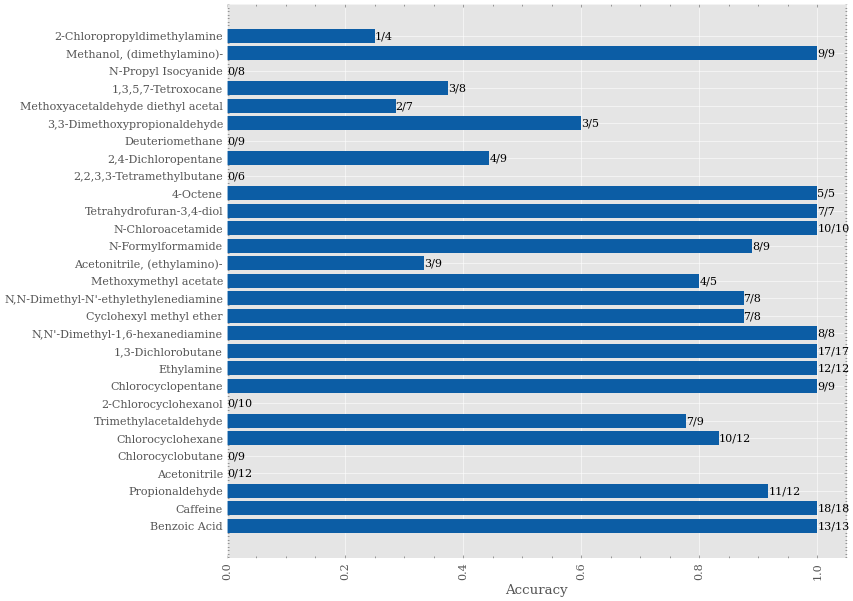
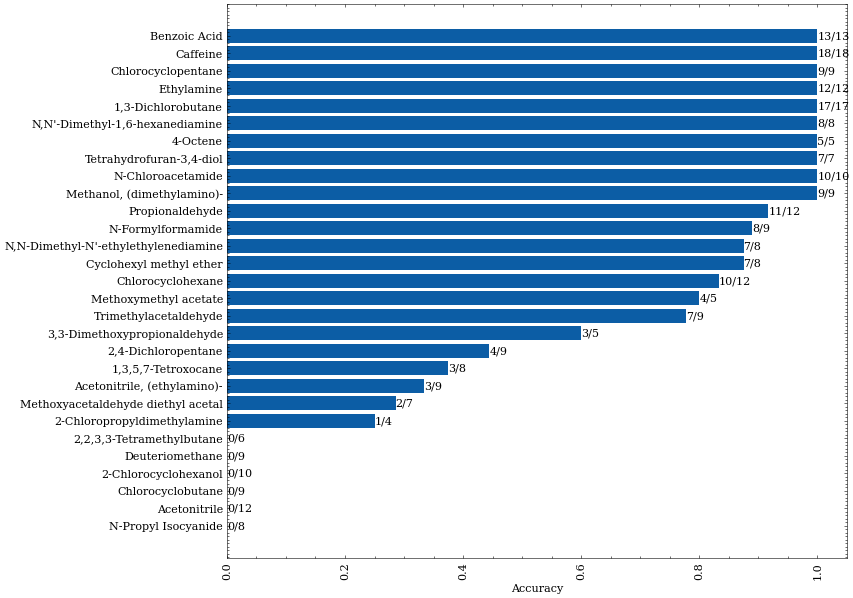
grammarly

diff --git a/main.tex b/main.tex
@@ -2,6 +2,7 @@
 \usepackage{listings}
 \usepackage[utf8]{inputenc}
 \usepackage{xcolor}
+\usepackage{gensymb}
 \usepackage{amsmath}
 \definecolor{codegreen}{rgb}{0,0.6,0}
 \definecolor{codegray}{rgb}{0.5,0.5,0.5}
@@ -67,14 +68,14 @@ mohamed.sami.shehata@ubc.ca
 
 
 \begin{abstract}
-Molecular models 
+Concrete molecular models could be important tools for students to learn organic chemistry compared to the virtual models. However, it lacks some properties of virtual models such as being able to look up more information (e.g. boiling point, polarity, name, etc) about the molecule. Thus, we aim to close the gap between concrete models with their digital representations.   
 \end{abstract}
 
 
 \section{Introduction}
 Molecular models are helpful tools in chemistry education as they provide an intuitive way for students to understand the 3D structure compared to 2D molecular structure representation. These models can also assist students with 3D mental operations. 
 % Although virtual models could be as effective as concrete models, concrete should be available to students at least at the beginning of the study of new concepts and ideas, as humans sometimes rely on concrete objects.\autocite{savec_evaluating_2005} 
-A study \autocite{savec_evaluating_2005} found that although virtual models could have the same effectiveness as concrete models, students should have access to concrete models at least at the beginning of the study because sometimes humans rely on concrete objects. Additionally, digital model tools have learning curve, and it is hard for students to understand some space operations such as a ``chair flip" using digital models. 
+A study \autocite{savec_evaluating_2005} found that although virtual models could have the same effectiveness as concrete models, students should have access to concrete models at least at the beginning of the study because sometimes humans rely on concrete objects. Additionally, digital model tools have a learning curve, and it is hard for students to understand some space operations such as a ``chair flip" or bonds rotation using digital models. 
 However, digital model representation has the benefit that allowing students to look up more information about the molecule such as the IUPAC (International Union of Pure and Applied Chemistry) name, the boiling point, and the polarity. Students can also modify the molecule and observe how it will affect the molecular properties. Thus, it will be beneficial if students can convert concrete molecular models to digital representations. 
 
 
@@ -84,14 +85,14 @@ Our contribution to this paper can be summarised as:
 \item We have constructed two datasets: one computer-rendered 3D molecular model and another consisting of real-world 3D molecular models.
 \item We trained a model on top of these two datasets that is capable of converting images of concrete molecular models into their respective SMILES (simplified molecular-input line-entry system) notations. 
 \item We applied a method based on multi-image input and beam search to increase the accuracy of the output.
-\item  We proposed to let the model to re-evaluate its output and select the one with highest probability being correct.
+\item  We proposed to let the model re-evaluate its output and select the one with the highest probability of being correct.
 % can we use this for seg? review the segmented images
 % \item We applied a multi-image input method allowing users to capture multiple images of the molecular model to increase the accuracy of the output.
 \end{itemize}
 
 \section{Related Work}
 To the best of our knowledge, there is no prior model that can convert a 3D molecular set photo into its digital structure representation. However, there are some models for 2D structure formulas. The two most recent ones are SwinOCSR\autocite{swinocsr} and DECIMER.ai\footnote{The name DECIMER has been used by the same team for both the dataset and two versions of the mode, here we are refreshing the model published in 2023.}\autocite{decimer}. These two models are very similar in architecture consisting of an image encoder and a transformer. The architecture of DECIMER.ai and SwinOCSR are shown in Figure \ref{fig:rwa}.
-ChemPix is another model that attempted to recognize hand-drawn hydrocarbon sturtures using CNN and Long Short-Term Memory (LSTM).  
+ChemPix is another model that attempted to recognize hand-drawn hydrocarbon structures using CNN and Long Short-Term Memory (LSTM).  
 
 \begin{figure}
     \centering
@@ -107,17 +108,17 @@ The decoder in DECIMER.ai is a transformer model based on \autocite{attention_is
 
 Although DeepSMILES \autocite{oboyle_deepsmiles:_2018} has been proposed for machine learning models to generate more valid identifies, their previous work \autocite{rajan_performance_2022} has shown that SMILES actually lead to the most accurate identifiers, SELFIES \autocite{krenn_self-referencing_2020} generated the most valid sequences, and SMILES is between the two. Thus, they used SMILES instead of DeepSMILES in DECIMER.ai. \autocite{decimer}  
 
-DECIMER.ai is trained on 127.5 millions molecules (453.9 millions depictions) with image size of 512$\times$512. They tested the model on4 in-domain dataset with 250K images each. The testing set dose not contain molecules from the training set. The results shows DECIMER.ai can generate moleucules with Tanimoto similarity greater than 0.95 and average sequence-level accuracy greater than 75\%. The detialed perfomance result could be find in their original paper \autocite{decimer}. 
+DECIMER.ai is trained on 127.5 million molecules (453.9 million depictions) with image size of 512$\times$512. They tested the model on the in-domain dataset with 250K images each. The testing set does not contain molecules from the training set. The results show DECIMER.ai can generate molecules with Tanimoto similarity greater than 0.95 and average sequence-level accuracy greater than 75\%. The detailed performance result could be found in their original paper \autocite{decimer}. 
 
-In addition to printed structure formulas, which has regular shapes and format, DECIMER.ai also attempted to recognize hand-drawn structures by finetuning the model with a dataset that has augmented data that makes structures look hand-drawn. This increases sequence level accuracy from 27\% to 60\% and increased the Tanimoto similarity from 0.2 to 0.89.
+In addition to printed structure formulas, which have regular shapes and format, DECIMER.ai also attempted to recognize hand-drawn structures by finetuning the model with a dataset that has augmented data that makes structures look hand-drawn. This increases sequence level accuracy from 27\% to 60\% and increases the Tanimoto similarity from 0.2 to 0.89.
 \autocite{decimer} 
 
 %how it trained on real data and handwritten 
 \subsection{SwinOCSR}
-In SwinOCSR, the encoder (they referred to as "backbone" in their paper) is built on the Swin Transformer. The image is cut into patches with each path having a size of $4 \times 4$ pixels. Then each patch is flattened into and treated as a token which is a 48-dim vector. Then a linear projection layer is applied and each token is into a 192-dim space. 
+In SwinOCSR, the encoder (they referred to as ``backbone" in their paper) is built on the Swin Transformer. The image is cut into patches with each path having a size of $4 \times 4$ pixels. Then each patch is flattened into and treated as a token which is a 48-dim vector. Then a linear projection layer is applied and each token is into a 192-dim space. 
 Then 4 Swin-Transformer (Shifted Window Transformer) \autocite{swin_tran} blocks are used. Each swim transformer block contains two regular transformer modules. In the first transformer module, Window Mutli-head Self Attention (W-MSA) is performed within each window, which is a group of neighbouring tokens. In the second transformer module, the Shifted Window Mutli-head Self Attention (SW-MSA) is performed on a shift-ed window. The W-MSA allows the model to capture the local relationship in the image, and the SW-MSA introduced a cross-window connection while maintaining efficiency. Before the tensor ($H_i \times W_i \times C_i$) gets passed to the next Swin Transformer block, a patch merging operation is performed to capture hierarchical information. During path merging, neighbouring $2 \times 2$ patches are merged and the tokens are concatenated. This results in $\frac{1}{4}$ of the number of patches and each $4C_i$ feature for each token. Then the dimensions of each token are reduced to $2C_i$. In SwinOCSR, 4 Swin Transformer blocks are used; the last Swin Transformer block outputs a tensor with shape $\frac{H}{32} \times \frac{H}{32} \times 1536$. This tensor is flattened across the spatial axes and projects the last axis into 256 dimensions. 
 % After each block, a patch merging operation is performed such that neighbouring patches are merged and the tokens are contacted. \autocite{swin_tran} The decoder of SwinOCSR is very similar to the decoder in DECIMER.ai, which is also a transformer encoder-decoder pair but with 6 blocks of encoders and 6 blocks of decoders. 
-In additition, SwinOCSR uses focal loss \autocite{lin_focal_2018} instead of normal cross entropy loss due to the inbalance of the tokens distribution. \cite{swinocsr} Original focal loss is only for binary task and \autocite{swinocsr} rewrited it for muti-class, which is shown in Equation \ref{focal} and \ref{focal2}, where $\sigma$ is the sigmoid function, $O_i$ is the output logist from the network, and $p_i$ is the probility of each class. 
+In addition, SwinOCSR uses focal loss \autocite{lin_focal_2018} instead of normal cross-entropy loss due to the imbalance of the tokens distribution. \cite{swinocsr} Original focal loss is only for binary task and \autocite{swinocsr} rewrited it for muti-class, which is shown in Equation \ref{focal} and \ref{focal2}, where $\sigma$ is the sigmoid function, $O_i$ is the output logist from the network, and $p_i$ is the probility of each class. 
 \begin{equation}
     p_i = \begin{cases} \sigma(o_i) &  y_i=1 \\
     1-\sigma(o_i) & \text{otherwise} \\
@@ -138,13 +139,30 @@ In additition, SwinOCSR uses focal loss \autocite{lin_focal_2018} instead of nor
 
 % \subsection{Re-evoluate the Results After Generation}
 \subsection{ChemPix}
-ChemPix \cite{chempix} is a model aimed to recongize hand-drawn hydrocarbon (molecules with only carbon and hydrogen atoms, showing in sturture formulas as mostly lines without letter notations) sturtures to their SMILES strings. They use a network architecture adapted from image captioning, with a CNN as encoder and a LSTM with attention meginism and beam search as decoder. \cite{chempix} They limited their dataset with ring size less than 8 carbons and molecules with multiple conjoined rings are not considered. They use both synthetic and real hand-drawn images to train the model. They also used a ``voting commitee" consitant muitiple models to vote for the final answer.
+ChemPix \cite{chempix} is a model aimed at recognizing hand-drawn hydrocarbon (molecules with only carbon and hydrogen atoms, showing in structure formulas as mostly lines without letter notations) structures to their SMILES strings. They use a network architecture adapted from image captioning, with a CNN as the encoder and an LSTM with an attention mechanism and beam search as the decoder. \cite{chempix} They limited their dataset with ring size less than 8 carbons and molecules with multiple conjoined rings are not considered. They use both synthetic and real hand-drawn images to train the model. They also used a ``voting committee" consisting of multiple models to vote for the final answer.
 
 % \subsection{Math Formula to LaTeX Conversion}
 % Besides OCSR, another simlar 
 
+\subsection{Perfomance Comparsion}
+In DECIMER.ai \autocite{decimer}, they compared the performance between DECIMER.ai and other OCSR software, including SwinOCSR. They tested the sequence-level accuracy and Tanimoto similarity on a series of datasets. To test the robustness of the models, they added distortions (i.e. rotating for $\pm5\degree$ and shearing) to all datasets. The comparison of DECIMER.ai and SwinOCSR is shown in table \ref{compare}. \autocite{decimer} For detailed information, such as the data distribution and for performances of other models, please refer to the DECIMER.ai paper \autocite{decimer}. They concluded that DECIMER.ai achieves competitive results and its performance did not get negatively affected by distortion in the data. SwinOCSR did not achieve outstanding results in this benchmark; the developer of SwinOCSR observed that their model dose does not perform well on real-world data, possibly due to a lack of diversity in the training data. \autocite{decimer} \autocite{swinocsr} 
+
+\begin{table}[]
+    \centering
+    \begin{tabular}{c|c|c|c|c|}
+      &  \multicolumn{2}{c|}{Undistorted Dataset} & \multicolumn{2}{c|}{Distorted Dataset} \\ \hline
+      & DECIMER.ai & SwinOCSR & DECIMER.ai & SwinOCSR \\ \hline
+     Sequence-Level Accuracy & \textbf{65\%} & 14\% & \textbf{68 \%}  & 8\%\\
+     Tanimoto & \textbf{93\%} & 70\% & \textbf{96 \%} & 64\%\\
+     Proportion of Tanimoto=0 & \textbf{2\%} & 5\% & \textbf{1\%} & 8\%\\
+     Proportion of Tanimoto<0.3 & \textbf{3\%} & 9\% & \textbf{2\%} &16\%\\
+
+    \end{tabular}
+    \caption{Perfomance Comparison Between DECIMER.ai and SwinOCSR}
+    \label{compare}
+\end{table}
 \section{Method}
-We also used a twi-stage training process in our project, similar to \autocite{decimer} and \autocite{chempix}. The model is first trained on a synthetic (3D rendered) dataset and then finetuned on a real-world collected dataset to reduce the amount of real-world data that needs to be collected as they are expensive.  
+We also used a two-stage training process in our project, similar to \autocite{decimer} and \autocite{chempix}. The model is first trained on a synthetic (3D rendered) dataset and then finetuned on a real-world collected dataset to reduce the amount of real-world data that needs to be collected as they are expensive.  
 
 
 \begin{figure}
@@ -188,11 +206,18 @@ P & \textcolor{color8}{\textbf{*}} & (0.502, 0, 0.502, 1)\\
 %redo
 We observed that image size will affect the convergence speed of the model and the traditional image size used for classification ($224\times224$) is not enough for our task; thus, we used an image size of $400\times400$. 
 \subsection{Real-World Dataset}
-We created a mobile application using React.js for data collection. The application will show user an 3D interactive model pre-view by \autocite{rego_3dmoljs_2015} and allow user to capture mutiple images of the model they built. The application screenshot could be found in Appendix. To increase the efficiency of data collection, we group similar models using the GPT: a list of the names of the molecules is given to the GPT via the OpenAI API and asked to group similar molecules together. Users can build either the given molecules or another molecule they choose. Volunteers are recruited to collect these images of molecular models. Because some of the molecular model kits we used do not have sulfur, we excluded all molecules with sulfur. After collecting, we observed some low-quality data such as images with obstruction between atoms, motion blur, etc. Thus, we made another application allowing volunteers to go through all the images and decide if they would be kept or discarded. The images are collected on clear backgrounds, and for each molecule images with different camera angles are captured. In total, we have a total of 1934 images of 203 molecules. 
+We created a mobile application using React.js for data collection. The application will show the user a 3D interactive model pre-view by \autocite{rego_3dmoljs_2015} and allow the user to capture multiple images of the model they built. The application screenshot can be found in the Appendix. To increase the efficiency of data collection, we group similar models using the GPT: a list of the names of the molecules is given to the GPT via the OpenAI API and asked to group similar molecules together. Users can build either the given molecules or another molecule they choose. Volunteers are recruited to collect these images of molecular models. Because some of the molecular model kits we used do not have sulphur, we excluded all molecules with sulphur. After collecting, we observed some low-quality data such as images with obstruction between atoms, motion blur, etc. Thus, we made another application allowing volunteers to go through all the images and decide if they would be kept or discarded. The images are collected on clear backgrounds, and for each molecule images with different camera angles are captured. In total, we have a total of 1934 images of 203 molecules. 
 
 We separated the training set and validation set by SMILES strings (i.e. different images of the same molecule will not appear in both validation and training set. Since we ignored isotopes here, molecules with different IDs might have the same SMILES) The validation set is randomly selected such that it has 20 molecules and 214 images total. 
 
-Figure \ref{fig:example} shows an example of rendered and real images. These images are images from the dataset after super-resolution for better visualization. Figure \ref{fig:dis} shows the DeepSILES string length distribution of both dataset. 
+\begin{figure}
+    \centering
+    \includegraphics[width=0.4\linewidth]{freq1.png}
+    \includegraphics[width=0.4\linewidth]{freq2.png}
+    \caption{Character Frequency Distribution}
+    \label{chardis}
+\end{figure}
+Figure \ref{fig:example} shows an example of rendered and real images. These images are images from the dataset after super-resolution for better visualization. Figure \ref{fig:dis} shows the DeepSILES string length distribution and Figure \ref{chardis} shows the character frequency distribution of both datasets. 
 
 \subsection{Machine Learning Model} 
 \subsubsection{Basic Model}
@@ -203,20 +228,25 @@ Figure \ref{fig:example} shows an example of rendered and real images. These ima
     \label{fig:arch}
 \end{figure}
 
-Our model architecture is shown in Fig \ref{fig:arch} and is very similar to the ones used in DECIMER.ai \autocite{decimer} and SwinOCSR \autocite{swinocsr}. The encoder we used is the EfficientNet-V2-S \autocite{effv2} from torchvision \autocite{torchvision2016} with internal parameters that are trained on ImageNet-1k \autocite{imagenet}. The reason behind selecting EfficientNet-V2-S instead of SwinTransformer like in SwinOCSR \autocite{swinocsr} is that on TorchVision the EfficientNet family actually has higher accuracy, and the reason of selecting the S (small) version of the EfficientNet-V2 is due to the very limited data in fine-tuning real-world dataset. Since we have very limited data, it will be benfitical to chose a smaller model to avoid over fitting. 
+Our model architecture is shown in Fig \ref{fig:arch} and is very similar to the ones used in DECIMER.ai \autocite{decimer} and SwinOCSR \autocite{swinocsr}. The encoder we used is the EfficientNet-V2-S \autocite{effv2} from torchvision \autocite{torchvision2016} with internal parameters that are trained on ImageNet-1k \autocite{imagenet}. The reason behind selecting EfficientNet-V2-S instead of SwinTransformer like in SwinOCSR \autocite{swinocsr} is that on TorchVision the EfficientNet family actually has higher accuracy, and the reason for selecting the S (small) version of the EfficientNet-V2 is due to the very limited data in the fine-tuning real-world dataset: it will be beneficial to choose a smaller model to avoid overfitting. 
 
 We extracted all the convolution layers from the EffcientNet-V2-S to get a feature map with size $1280\times13\times13$ ($Channel \times Width \times Height$)  for each batch. This feature map is then flattened into 2D shape $1280\times169$, re-permuted to sequence-like shape $169\times1280$ ($Sequence \times Channel$), projected to 256-dimension to match the input shape of SwinOCSR decoder, and passed through a dropout layer. The tensor is then fed into our decoder. which is adapted from SwinOCSR \autocite{swinocsr}. We also used focal loss in our model; however, instead of sigmoid, we used Softmax as implemented in \cite{torch_focal}.
 
+During training, we use the ``teacher forcing" method: the model will be given all the correct tokens and for each token ($t$-th) the model will predict the next token $(t+1)$-th on the same position on the output. Since the decoder in Transformer is masked self-self-attention, the token at $t$ will only have an attention score with previous tokens ($0\dots t-1$). This utilizes the parralization feature of the Transformer. However, this makes the model only see the correct previous tokens and not the wrong previous tokens (which would be common during inferences), making it possible for the model to cumulate the mistakes during inferences. \autocite{bengio_scheduled_2015} Thus, scheduled sampling \autocite{bengio_scheduled_2015} proposed to sometimes use the model's own output as the \textit{previous tokens} during training. However, this will disrupt the parreall features of transformers. Additionally, unlike natural language, which has some variation and fault tolerance, the DeepSMILES we are generating has only one correct answer. Thus, it does not matter if the error is cumulative as the DeepSMILES would be wrong either way. Therefore, we are not using the scheduled sampling in this project. 
+
 \subsection{Beam search and Multi-image input}
-Beam search is a way to increase the accuracy of autoregressive models. \autocite{yang_breaking_2018} \autocite{zhang_beam_2024}. Beam search can also provide users with multiple candidate answers to choose from, similar to the top-$n$ in image classification. However, one issue with beam search is that it will favour shorter sequences as a sub-sequence will always have a higher probability than its parent sequence. \autocite{yang_breaking_2018} \autocite{zhang_beam_2024} There are multiple methods to solve this issue, some are mentioned in \autocite{yang_breaking_2018} and \autocite{zhang_beam_2024}. In this paper, we use a simple method mentioned in \autocite{zhang_beam_2024} where we multiple $\frac{1}{L^\alpha}$ to the log probability where $L$ is the length of the sequence. This will make the log probability of a long sequence higher (since the log probability is negative). The re-scored $logprob$ is shown in Equation \ref{beam}.\cite{zhang_beam_2024} where $P(y_t|y_1\dots y_{t-1}, \textbf{e})$ is the probility of output $y_t$ at $t$-th token given pervious tokens $y_1\dots y_{t-1}$ and image embeding $\textbf{e}$. 
+Beam search is a way to increase the accuracy of autoregressive models. \autocite{yang_breaking_2018} \autocite{zhang_beam_2024}. Beam search can also provide users with multiple candidate answers to choose from, similar to the top-$n$ in image classification. However, one issue with beam search is that it will favour shorter sequences as a sub-sequence will always have a higher probability than its parent sequence. \autocite{yang_breaking_2018} \autocite{zhang_beam_2024} There are multiple methods to solve this issue, some are mentioned in \autocite{yang_breaking_2018} and \autocite{zhang_beam_2024}. In this paper, we use a simple method mentioned in \autocite{zhang_beam_2024} where we multiple $\frac{1}{L^\alpha}$ to the log probability where $L$ is the length of the sequence. This will make the log probability of a long sequence higher (since the log probability is negative). It can also be seen as taking the mean of the $logprob$ of each token when $\alpha=1$. The re-scored $logprob$ is shown in Equation \ref{beam}.\cite{zhang_beam_2024} where $P(y_t|y_1\dots y_{t-1}, \textbf{e})$ is the probility of output $y_t$ at $t$-th token given pervious tokens $y_1\dots y_{t-1}$ and image embeding $\textbf{e}$. 
 \begin{equation}
     LP = \frac{1}{L^{\alpha}}\sum_{t=1}^{L}logP(y_t|y_1\dots y_{t-1}, \textbf{e})
     \label{beam}
 \end{equation}
 % In this project, we set \(\alpha=0.75\) as suggested in \autocite{zhang_beam_2024}. 
 
-Additionally, we also hypothesize that multiple image inputs will increase the accuracy of the model. This has been shown in previous research \autocite{sun_multi-input_2017}, in which the authors use the ``early fusion" method where feature maps from 3 different images are concatenated on the channel axis in the early stage of the network. However, this method requires modification of the backbone network and the number of images in this method is fixed. Instead, our method passes individual images through the entire network (including the EfficientNet-V2-S and SwinOCSR decoder) and averages the softmax distribution of tokens. The comparsion of our models and \autocite{sun_multi-input_2017} is shown in Figrue \ref{mi}.
-
+Additionally, we also hypothesize that multiple image inputs will increase the accuracy of the model. This has been shown in previous research \autocite{sun_multi-input_2017}, in which the authors use the ``early fusion" method where feature maps from 3 different images are concatenated on the channel axis in the early stage of the network. However, this method requires modification of the backbone network and the number of images in this method is fixed. Instead, our method passes individual images through the entire network (including the EfficientNet-V2-S and SwinOCSR decoder) and averages the softmax distribution of tokens, as shown in Equation \ref{eq:mi} where $I$ is the input image set, $M$ is the model, $P(y_{t,j})$ is the probability of token $j$  at time $t$, and $\sigma$ is the Softmax function. The comparison of our models and \autocite{sun_multi-input_2017} is shown in Figure \ref{mi}. 
+\begin{equation}
+    P(y_{t,i})=\frac{1}{|I|}\sum_{i\in I}P(y_{t,i}|y_0 \dots y_{t-1}, i) = \frac{1}{|I|}\sum_{i\in I}\sigma(M(y_0 \dots y_{t-1}, i))
+    \label{eqmi}
+\end{equation}
 \begin{figure}
     \centering
     \includegraphics[width=0.8\textwidth]{mi.drawio.png}
@@ -249,10 +279,10 @@ Since the purpose of the ITM score is to find the best sequence in multiple mode
     \caption{Mistakes Dictionary and Self-Negative}
     \label{fig:selfnegative}
 \end{figure}
-
 \begin{minipage}{\linewidth}
+\tiny
 
-\begin{lstlisting}[language=Python, caption=Training Process Pseudocode, label=selfnagative]
+    \begin{lstlisting}[language=Python, caption=Training Process Pseudocode, label=selfnagative]
 mistakes = {correct:random.choices(SMILES, k=3) for correct in SMILES}
 
 # training loop
@@ -261,10 +291,11 @@ for img, text_in, text_out in dataloader():
     outputs = model(image, text_in, predict = True)[:,:-1,:]
     loss = focal_loss(outputs, text_out)
     model.gradient_descent.step()
-    
-    if outputs != text_out:
-        mistakes[text_out].append(outputs)
-        mistakes[text_out].pop(0)
+
+    for i in range(BATCH_SIZE):
+        if outputs != text_out:
+            mistakes[text_out[i]].append(outputs[i])
+            mistakes[text_out[i]].pop(0)
     
     label = [random()<0.5 for _ in range(BATCH_SIZE)]
     text_in = [text_out[i] if j else random.choice(mistakes[text_out[i]]) for i, j in enumerate(label)]
@@ -292,11 +323,11 @@ We train our model on the synthetic dataset with AdamW \autocite{adamw} and an e
 % Similar to the pretraining, the decoder is frozen. 
 % Additionally, we also freeze the projection layer between the encoder and reladecoder and the last 2 blocks of encoder EfficientNet-V2-S since the input of the decoder is in the same domain for pre-training and finetuning. This could also decrease the number of trainable parameters to avoid overfitting. 
 After training, we tested the model on a dataset between validation and testing. This dataset is not used in finetuning the hyperparameters but is used to test after hyperparameter tuning. However, it is not the final testing set. If the model performance is not ideal on this dataset, we returned the hyperparameters. This intermedia dataset could be used multiple times and will be merged into the validation set at the end and the model will be tested on a real dataset.
-\section[Results and Discussions]{Results and Discussions\footnote{Although there are variations between each training, we only take one trained model in the evolution for simplicity. And different part of the result might use different trained models. }}
+\section[Results and Discussions]{Results and Discussions\footnote{Although there are variations between each training, we only take one trained model in the evolution for simplicity. And different parts of the result might use different trained models. }}
 \subsection{Accuracy}
 We extended our validation set with some more molecules, this dataset is also filtered to remove images with occlusion and bad lighting. However, we kept some images that could be out of the domain for the model (poor lighting but atoms are still visible, and overly simplified molecule: methane) to avoid biased results from cherry-picking the data. For each molecule, take $k$ samples where $k$ is the number of images for that molecule in the dataset. For each sample, we randomly select $N$ images from the dataset without replacement. 
 
-Similar to \cite{swinocsr}, we evoluated the relationship beyween our model's perfomance with types of molecules and smiles string length. However, since our validation dataset is extreamly limited, this could not be used as definated answer. 
+Similar to \cite{swinocsr}, we evaluated the relationship between our model's performance with types of molecules and smiles string length. However, since our validation dataset is extremely limited, this could not be used as defined answer. 
 
 
 
@@ -332,7 +363,7 @@ compare the accuracy of different types of molecules
 %     \label{tab:my_label}
 % \end{table}
 \subsection{Calibration}
-The model's calibration is the metric determining if the model's output accuracy is aligned with its uncertify.  The calibration metric of a model is important when it needs to make important decisions such as resume screaming and malware detection. \autocite{liang_holistic_2023} The calibration is important for our sequence generating task for another reason as we will select the output with the lowest uncertainty (highest \textit{logprob}) as the final output. We evaluated our model's calibration using the method similar to \cite{liang_holistic_2023}, we randomly sample  in each sample, we random select 10 molecules and then randomly select images for that molecule. We calculate the mean accuracy for each sample and the mean perplexity ($logprob$) for each sample and plotted them in Figure \ref{fig:cal1} for different $nImages$. Because the sequence probility (also known as perplexity) is the product of the probilities of each tokens, the value is usually small, usually with a range smaller than 0-1. Thus, did not use the commonly used metric expected calibration error (ECE) like in \cite{liang_holistic_2023}. In fact, even in \autocite{liang_holistic_2023}, they did not evoluate the calibration for generative tasks. Instead, we used the $r^2$ value to evoluate the calbration of the model. This is partically inspried by the $r^2$ values used in evoluating the quility of calibration curve in analytical chemistry (such as absorbtion or GC-MS). 
+The model's calibration is the metric determining if the model's output accuracy is aligned with its uncertify.  The calibration metric of a model is important when it needs to make important decisions such as resume screaming and malware detection. \autocite{liang_holistic_2023} The calibration is important for our sequence generating task for another reason as we will select the output with the lowest uncertainty (highest \textit{logprob}) as the final output. We evaluated our model's calibration using a method similar to \cite{liang_holistic_2023}, we randomly sample in each sample, we randomly select 10 molecules and then randomly select images for each molecule. We calculate the mean accuracy for each sample and the mean perplexity ($logprob$) for each sample and plot them in Figure \ref{fig:cal1} for different $nImages$. Because the sequence probability (perplexity) is the product of the probabilities of each token, the value is usually small, with a range smaller than 0-1. Thus, did not use the commonly used metric expected calibration error (ECE) like in \cite{liang_holistic_2023}. In fact, even in \autocite{liang_holistic_2023}, they did not evaluate the calibration for generative tasks. Instead, we used the $r^2$ value to evaluate the calibration of the model. This is partially inspired by the $r^2$ values used in evaluating the quality of the calibration curve in analytical chemistry (such as absorption or GC-MS). 
 \begin{figure}
     \centering
     \includegraphics[width=0.3\textwidth]{caln1.png}
@@ -343,32 +374,32 @@ The model's calibration is the metric determining if the model's output accuracy
 \end{figure}
 \begin{figure}
     \centering
-    \includegraphics[width=1\linewidth]{image.png}
+    \includegraphics[width=0.8\linewidth]{image.png}
     \caption{Accuracy For Each Molecule}
     \label{fig:acc_each}
 \end{figure}
 \section{Conclusion}
 \section{Demo}
-We deployed the model on our server \footnote{\url{http://file.weasoft.com:8888}} with a frontend and open source our model on github\footnote{\url{https://github.com/weathon/3d2smile}}. 
+We deployed the model on our server \footnote{\url{http://file.weasoft.com:8888}} with a frontend and open source our model on github\footnote{\url{https://github.com/weathon/3d2smile}}. A simple demo video can be found on youTube \footnote{\url{https://youtu.be/m4AkzqKC-M4}}. 
 \section{Limation and Future Work}
 \begin{itemize}
 \item In this project, we did not attempt to recognize stereochemical information such as chirality and E/Z structure. However, these are important concepts in organic chemistry for students to understand and being able to show these is one of the key characteristics and benefits of 3D models. However, this is challenging because  
-In furture works, we will attempt to recongize the stereochemical information and output iso-SMILES instead of regular smiles. 
+In future works, we will attempt to recognize the stereochemical information and output iso-SMILES instead of regular smiles. 
 
-\item  Our real-world dataset is limited by time and budget, a larger dataset could increase the accuracy and robustness of the model. 
+\item Both of our dataset is limited by time and budget. COMPARE a larger dataset could increase the accuracy and robustness of the model. 
 
 \item This project only focused on the technical side of the problem and did not test how well this application would be in classroom settings, further chemical education studies are needed to determine its effectiveness in education. 
 
 \item Traditional molecular models have some limitations, such as they might be misleading and let students think energy is needed to create bonds when they are not \autocite{snatoms}. Train a machine learning model on alternative molecular models, such as Snatoms\autocite{snatoms}, and might be able to provide better education values. 
 
-\item  The mistakes dictionary is built using teaching-forcing model output, there is a domain gap between this and the model output in autoregressive mode. 
+\item  The purpose of the mistakes dictionary is to simulate the real mistakes that the model will encounter during inferences. However, during the training, the model generates the sequence by the teaching forcing method (where it always gets the correct pervious tokens ($y_1 \dots y_{t-1}$) while during inferences the pervious tokens are generated by the model itself. This will lead to a domain gap between the training mistakes and the inferences mistakes, making it possible that models cannot find the wrong output sequence during inferences. In future work, it is worth investigating if using the model's real output for mistakes dictionary (similar to the idea in Scheduled Sampling \autocite{bengio_scheduled_2015}) will be beneficial. 
 
 % \item There are also two other hyperparameters in the inference that we need to consider: the softmax temperature ($t$) and $\alpha$ in the beam search penalty for short sequences. We did not systematically investigate the effects of these hyperparameters. In future work, the models might yield different absolute and relative results.      
 % We used Weight and Bias \cite{wandb} to do a random sweep with on these hyperparameters and selected the hyperparameter set with the highest score, which is defined in Equation \ref{score} where $P_{1}$ and $P_{n}$ are top-1 and top-$beam$ accuracy.
 
 \end{itemize}
-\section*{Acknowledgement}
-The author wants to thank \textbf{Dr. Brian Ganley} from the Chemistry Department of the University of Missouri-Columbia and \textbf{Dr. Wesley Zandberg} from University of British Columbia for providing use cases and other advice on this project; \textbf{Dr. Hung-yi Lee} from National Taiwan University and \textbf{Dr. Mu Li} and \textbf{Dr. Yi Zhu} from Amazon (now in Boson.ai) for their illuminating lectures on YouTube played an essential role in the process of this project; \textbf{Peizhi Yan}, \textbf{Dr. Shan Du}, and \textbf{Islam Osman} from the UBC for mentoring in the process; \textbf{Yiyang Du} form UBC for data collecting; and \textbf{Beiliang Zhao} from UBC for peer discussion.
+\section*{Acknowledgement} 
+The author wants to thank  \textbf{Dr. Mohamed Shehata} for supervising and providing computing resources for this project; \textbf{Dr. Brian Ganley} from the Chemistry Department of the University of Missouri-Columbia and \textbf{Dr. Wesley Zandberg} from the University of British Columbia for providing use cases and other advice on this project; \textbf{Dr. Hung-yi Lee} from National Taiwan University and \textbf{Dr. Mu Li} and \textbf{Dr. Yi Zhu} from Amazon (now in Boson.ai) for their illuminating lectures on YouTube played an essential role in the process of this project; \textbf{Peizhi Yan}, \textbf{Dr. Shan Du}, and \textbf{Islam Osman} from the UBC for mentoring in the process; \textbf{Yiyang Du} from UBC for data collecting; and \textbf{Beiliang Zhao} from UBC for peer discussion.
 
 % I would also want to thank my cat, Yiyang Du, for providing emotional support during this project. 
 
@@ -376,13 +407,13 @@ The creation of this project was aided by OpenAI ChatGPT and Google Gemini, whic
 
 The computation of this work is partially performed on UBC Advanced Research Computing, DOI: 10.154288/SOCKEYE.
 \section*{Conflict of Interest}
-The author Wenqi Marshall Guo is the owner of WeaSoft software development group, and this project might be deployed for use and profit of the WeaSoft group. 
+The author Wenqi Marshall Guo is the owner of the WeaSoft software development group, and this project might be deployed for the use and profit of the WeaSoft group. 
 % \IEEEpeerreviewmaketitle
 \printbibliography
 \pagebreak 
 \section*{Appendix}
 \subsection*{0\% Accuracy Image Samples}
-Here are image samples from the real-world dataset where the model achrivees 0\% accuracy on individual molecules. \\
+Here are image samples from the real-world dataset where the model achieves 0\% accuracy on individual molecules. \\
 \begin{center}
     \begin{tabular}{c|c|c}
         Name & Sample Images   & SMILES  \\ \hline
